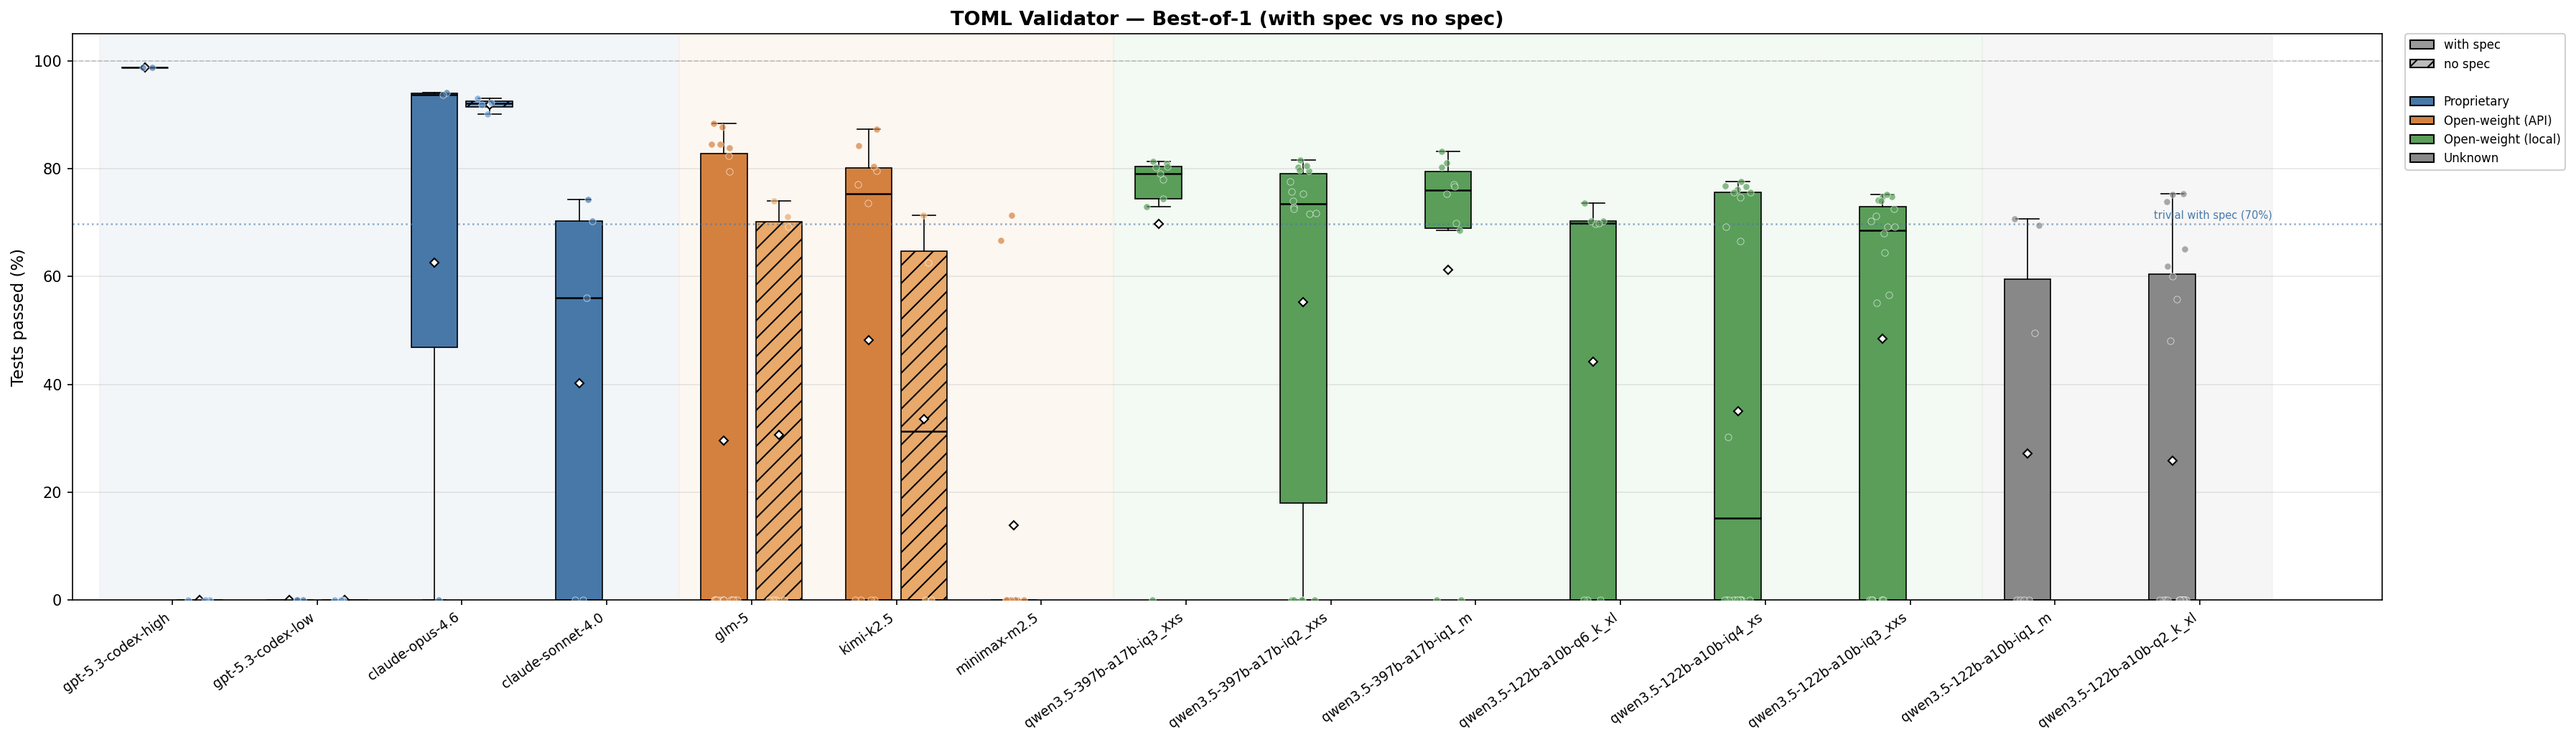
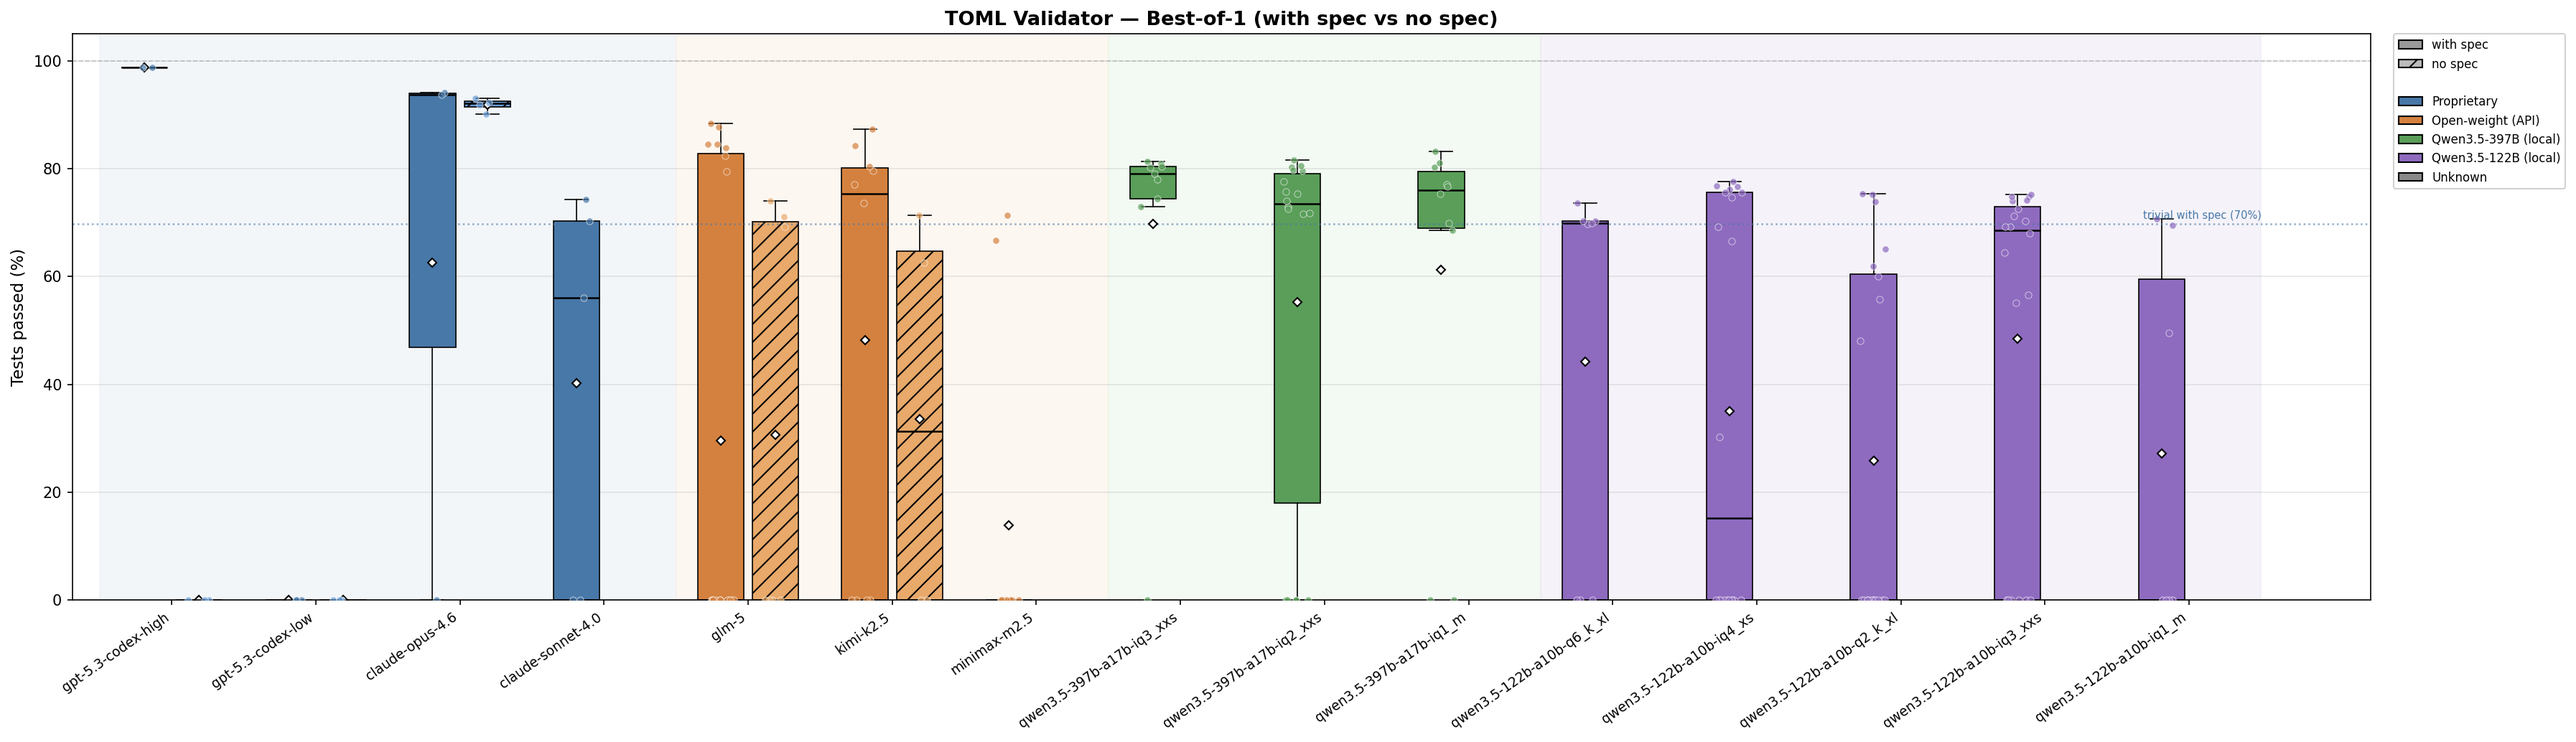
Split local model categories: Qwen3.5-397B (green) vs Qwen3.5-122B (purple)
Four category colors in comparison charts:
- Blue: proprietary (GPT, Claude)
- Orange: open-weight API (GLM, Kimi, MiniMax, Devstral)
- Green: Qwen3.5-397B local quants
- Purple: Qwen3.5-122B local quants

Added missing qwen3.5-122b-a10b-q2_k_xl to MODEL_CONFIG.

diff --git a/plot_comparison.py b/plot_comparison.py
@@ -15,7 +15,6 @@ from plot_results import parse_summary, best_of_n
 
 # Model display order and category assignment.
 # Keys are slugs (as used by validation_bench.py and update_results.sh).
-# Categories: "proprietary" (closed-weight), "api" (open-weight via API), "local" (GGUF/local)
 MODEL_CONFIG = OrderedDict([
     ("gpt-5.3-codex-high",  "proprietary"),
     ("gpt-5.3-codex-low",   "proprietary"),
@@ -25,30 +24,34 @@ MODEL_CONFIG = OrderedDict([
     ("kimi-k2.5",           "api"),
     ("minimax-m2.5",        "api"),
     ("devstral",            "api"),
-    # qwen3.5-397b-a17b: grouped by quant level (high to low)
-    ("qwen3.5-397b-a17b",       "local"),
-    ("qwen3.5-397b-a17b-iq3_xxs", "local"),
-    ("qwen3.5-397b-a17b-iq2_xxs", "local"),
-    ("qwen3.5-397b-a17b-iq1_m",   "local"),
-    # qwen3.5-122b-a10b: grouped by quant level (high to low)
-    ("qwen3.5-122b-q8",           "local"),
-    ("qwen3.5-122b-a10b-q6_k_xl", "local"),
-    ("qwen3.5-122b-a10b-iq4_xs",  "local"),
-    ("qwen3.5-122b-a10b-iq3_xxs", "local"),
-    ("qwen3.5-122b-a10b",         "local"),
+    # Qwen3.5-397B-A17B: quant level high to low
+    ("qwen3.5-397b-a17b",         "local-397b"),
+    ("qwen3.5-397b-a17b-iq3_xxs", "local-397b"),
+    ("qwen3.5-397b-a17b-iq2_xxs", "local-397b"),
+    ("qwen3.5-397b-a17b-iq1_m",   "local-397b"),
+    # Qwen3.5-122B-A10B: quant level high to low
+    ("qwen3.5-122b-q8",           "local-122b"),
+    ("qwen3.5-122b-a10b-q6_k_xl", "local-122b"),
+    ("qwen3.5-122b-a10b-iq4_xs",  "local-122b"),
+    ("qwen3.5-122b-a10b-q2_k_xl", "local-122b"),
+    ("qwen3.5-122b-a10b-iq3_xxs", "local-122b"),
+    ("qwen3.5-122b-a10b-iq1_m",   "local-122b"),
+    ("qwen3.5-122b-a10b",         "local-122b"),
 ])
 
 CATEGORY_COLORS = {
-    "proprietary": ("#4878a8", "#6a9fd8"),  # (left, right) box colors
-    "api":         ("#d4813f", "#e8a96a"),
-    "local":       ("#5a9e5a", "#82c482"),
-    "unknown":     ("#888888", "#aaaaaa"),
+    "proprietary": ("#4878a8", "#6a9fd8"),  # (left, right) box colors — blue
+    "api":         ("#d4813f", "#e8a96a"),   # orange
+    "local-397b":  ("#5a9e5a", "#82c482"),   # green
+    "local-122b":  ("#8e6bbf", "#b094d8"),   # purple
+    "unknown":     ("#888888", "#aaaaaa"),   # gray
 }
 
 CATEGORY_LABELS = {
     "proprietary": "Proprietary",
     "api":         "Open-weight (API)",
-    "local":       "Open-weight (local)",
+    "local-397b":  "Qwen3.5-397B (local)",
+    "local-122b":  "Qwen3.5-122B (local)",
     "unknown":     "Unknown",
 }
 
@@ -128,7 +131,10 @@ def main():
     # Draw category background bands
     prev_cat = None
     band_start = -0.5
-    band_colors = {"proprietary": "#e8eef5", "api": "#fdf0e5", "local": "#e8f5e8", "unknown": "#eeeeee"}
+    band_colors = {
+        "proprietary": "#e8eef5", "api": "#fdf0e5",
+        "local-397b": "#e8f5e8", "local-122b": "#ede8f5", "unknown": "#eeeeee",
+    }
     for i, name in enumerate(model_names):
         cat = MODEL_CONFIG.get(name, "unknown")
         if cat != prev_cat and prev_cat is not None:
